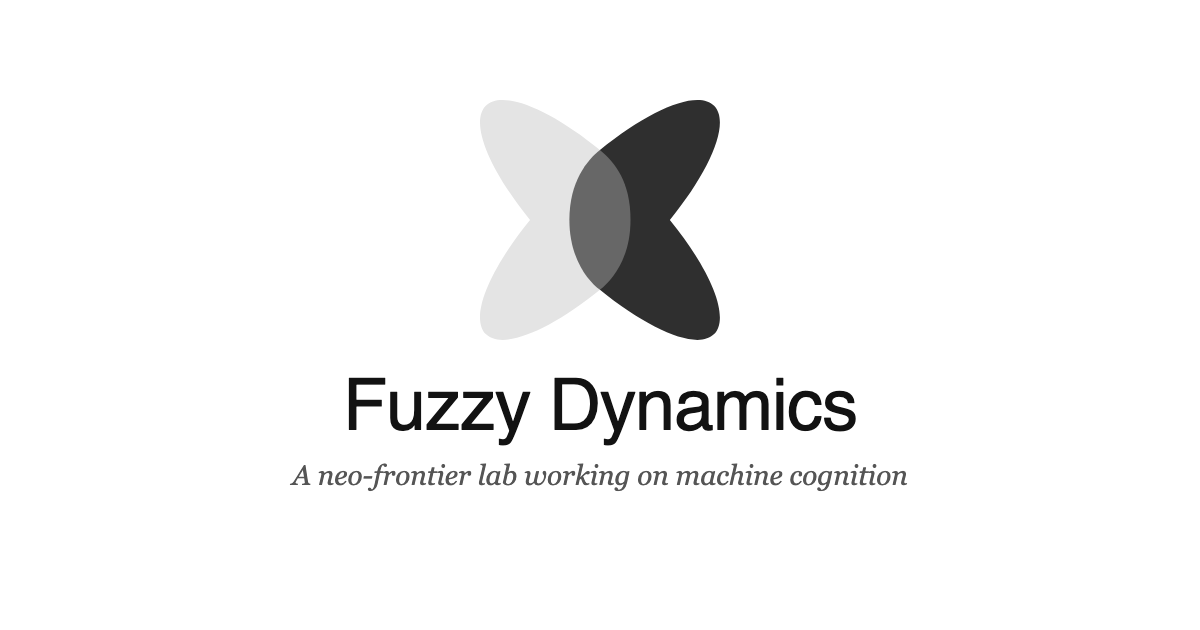
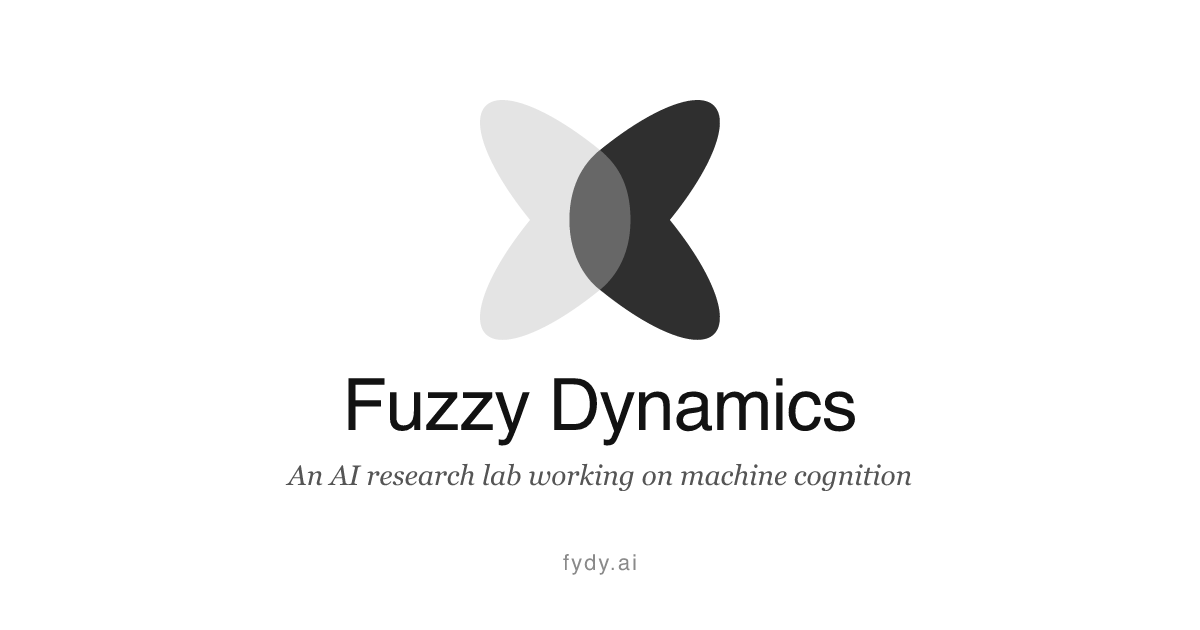
Sync frontend from fydy: fixing some more things
Auto-synced from fuzzy-dynamics/theatre

diff --git a/frontend/src/pages/FuzzyDynamics.tsx b/frontend/src/pages/FuzzyDynamics.tsx
@@ -4,7 +4,13 @@ import { Seo } from "@/components/Seo";
 
 const FuzzyDynamics = () => {
   return (
-    <div className="min-h-screen bg-white text-foreground">
+    <div
+      className="min-h-screen bg-white text-foreground"
+      style={{
+        fontFamily:
+          '"OpenAI Sans", "Söhne", "Geist", ui-sans-serif, system-ui, -apple-system, "Segoe UI", Helvetica, Arial, sans-serif',
+      }}
+    >
       <Seo
         title="Fuzzy Dynamics (FYDY)"
         description="Fuzzy Dynamics is an AI research lab working on machine cognition. Home of OpenScientist, an AI research studio now in private beta."
@@ -63,7 +69,9 @@ const FuzzyDynamics = () => {
             <p>
               Fuzzy Dynamics is an AI research lab currently in stealth. We are
               making machines that{" "}
-              <strong>continually and efficiently learn from experience</strong>
+              <span className="underline decoration-muted-foreground/40 underline-offset-4">
+                continually and efficiently learn from experience
+              </span>
               . This is the paradigm shift we need for superintelligence.
             </p>
 

diff --git a/frontend/index.html b/frontend/index.html
@@ -74,7 +74,7 @@
         <link rel="preconnect" href="https://fonts.googleapis.com" />
         <link rel="preconnect" href="https://fonts.gstatic.com" crossorigin />
         <link
-            href="https://fonts.googleapis.com/css2?family=Caveat:wght@400;500;600;700&family=Indie+Flower&family=Kalam:wght@300;400;700&family=Patrick+Hand&family=EB+Garamond:wght@400;500;600;700&family=Libre+Baskerville:wght@400;700&family=Crimson+Text:wght@400;600;700&display=swap"
+            href="https://fonts.googleapis.com/css2?family=Caveat:wght@400;500;600;700&family=Indie+Flower&family=Kalam:wght@300;400;700&family=Patrick+Hand&family=EB+Garamond:wght@400;500;600;700&family=Libre+Baskerville:wght@400;700&family=Crimson+Text:wght@400;600;700&family=Geist:wght@100..900&display=swap"
             rel="stylesheet"
         />
 
